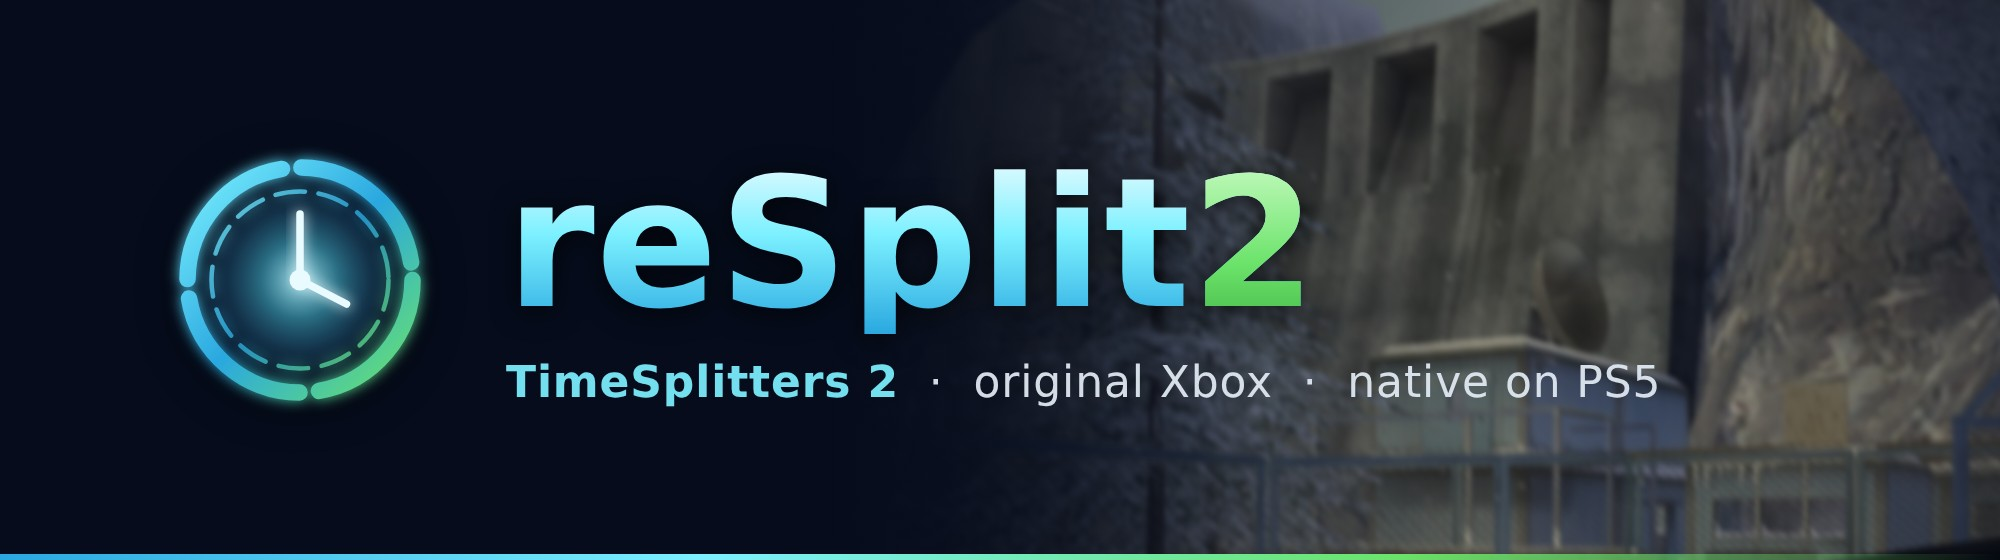
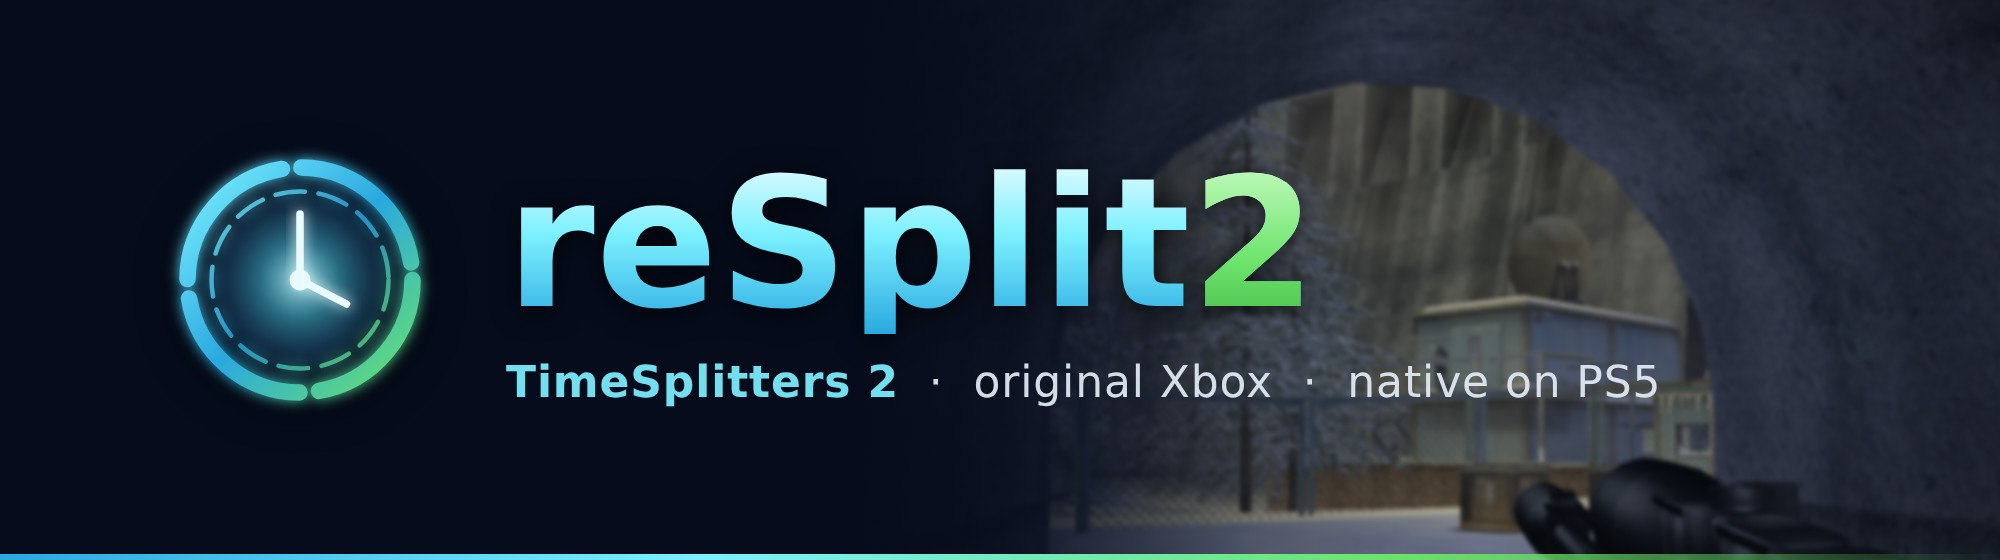
0.1.3: L2 aims, R2 fires; README: sharp PS5 screenshots of single player, split screen and the menus
Claude-Session: https://claude.ai/code/session_017kd37kA5EexT1GhJ6sbRyu

diff --git a/game/src/common/game_info.cpp b/game/src/common/game_info.cpp
@@ -2,7 +2,9 @@
 
 namespace ts2 {
 extern bool g_soft_filter;  // ts2_ps5.cpp
+extern bool g_left_trigger_aims;
 void PatchText();
+void Pad(int port, input::Pad& p);
 }  // namespace ts2
 
 // what the runtime asks of the game; strings must be set, hooks may stay null
@@ -19,7 +21,12 @@ const app::GameInfo app::kGame = {
     .options = {{"graphics", "soft_filter", cfg::Type::Bool, "Xbox soft filter",
                  "The game softened its picture for the TVs of its day by blending it over itself one pixel off. At "
                  "high resolutions that looks doubled and blurry, so it is off; turn it on for the console's look.",
-                 &ts2::g_soft_filter}},
+                 &ts2::g_soft_filter},
+                {"input", "left_trigger_aims", cfg::Type::Bool, "Left trigger aims",
+                 "L2 aims, as clicking the right stick does, and R2 fires. Clicking the right stick then does what L2 "
+                 "did (Alternate Fire, or the left gun of two). Set the game's Controls > Aim Mode to Hold to aim only "
+                 "while L2 is held.",
+                 &ts2::g_left_trigger_aims}},
     .load = nullptr,                      // reads more from the settings file's toml::table
     .save = nullptr,                      // writes more into it
     .init = nullptr,                      // after the settings load, before the window and boot
@@ -27,6 +34,6 @@ const app::GameInfo app::kGame = {
     .window = nullptr,                    // the game window is up
     .message = nullptr,                   // window messages first; true takes one
     .ui = nullptr,                        // ImGui drawing each frame
-    .pad = nullptr,                       // changes a polled pad
+    .pad = ts2::Pad,                      // changes a polled pad: the left trigger aims
     .rumble = nullptr,                    // changes a rumble before it is set
 };

diff --git a/game/src/game/ts2_ps5.cpp b/game/src/game/ts2_ps5.cpp
@@ -4,6 +4,7 @@
 #include <cstring>
 #include <string>
 
+#include "core/input.h"
 #include "core/log.h"
 #include "cpu/x86_context.h"
 #include "kernel/kernel.h"
@@ -13,6 +14,21 @@ namespace ts2 {
 
 // [graphics] soft_filter: the console's soft filter, off by default (below)
 bool g_soft_filter = false;
+// [input] left_trigger_aims: the left trigger and the right stick's click trade places (Pad below)
+bool g_left_trigger_aims = true;
+
+// The Xbox game fires with both triggers (the left one is Alternate Fire, or the left gun of two) and aims with a
+// click of the right stick. With left_trigger_aims on, the left trigger does what the right stick's click did (Aim:
+// held, or a toggle, as the game's Controls > Aim Mode says) and the click does what the left trigger did, so no
+// action is lost.
+void Pad(int port, input::Pad& p) {
+    (void)port;
+    if (!g_left_trigger_aims || !p.connected) return;
+    constexpr uint16_t kRightThumb = 0x80;
+    const bool trigger = p.analog[6] > 40, click = (p.buttons & kRightThumb) != 0;
+    p.buttons = trigger ? uint16_t(p.buttons | kRightThumb) : uint16_t(p.buttons & ~kRightThumb);
+    p.analog[6] = click ? 255 : 0;
+}
 
 namespace {
 

diff --git a/ps5/overlay_ps5.cpp b/ps5/overlay_ps5.cpp
@@ -57,6 +57,7 @@ const std::vector<Item>& Items() {
         {"graphics.lod_bias", 0},
         {"graphics.smooth_2d", 0},
         {"graphics.soft_filter", 0},
+        {"input.left_trigger_aims", 1},
         {"input.vibration", 1},
         {"input.stick_deadzone", 1},
         {"input.trigger_threshold", 1},

diff --git a/README.md b/README.md
@@ -36,12 +36,12 @@
 > Please don't use this project with pirated copies of the game.
 
 > [!NOTE]
-> **Early test builds.** The 0.1.x releases are for testing on real consoles. The story's first level, the menus,
-> profiles and saves have been played; expect rough edges elsewhere, and please [report](#reporting-a-problem) what
-> you find.
+> **Early test builds.** The 0.1.x releases are for testing on real consoles. The story's first level alone and in
+> two-player split screen, the menus, profiles and saves have been played; expect rough edges elsewhere, and please
+> [report](#reporting-a-problem) what you find.
 
 <p align="center">
-  <img src="docs/media/siberia.jpg" alt="Siberia, 1990: the Oblask dam behind a snowy compound, seen from the mouth of a tunnel, with the scanner in hand" width="100%">
+  <img src="docs/media/siberia.jpg" alt="Siberia, 1990: a sniper rifle in hand at the mouth of a tunnel, a guard on a snowy compound beyond it" width="100%">
   <br>
   <sub>Siberia, captured on a PS5 at 3840x2160.</sub>
 </p>
@@ -64,14 +64,36 @@ services.
   shape, with bars at the sides. The lens flares, motion blur and screen effects are the game's.
 - **PS5 in the game's text.** "Please don't turn off your PS5 console", and your saves live on "PS5 storage".
 - **Four-player split screen.** Sign in more users on the PS5 (guests are enough) and turn on their controllers.
+- **L2 aims, R2 fires**, as in today's shooters (the menu brings back the Xbox layout).
 - **An in-game menu.** L3 + R3 at any time: render resolution, V-Sync, frame rate counter, texture filtering, the
-  soft filter, vibration, stick deadzone and trigger threshold.
+  soft filter, the trigger layout, vibration, stick deadzone and trigger threshold.
 - **Disc image install.** Copy your `.iso` to the console and start the app: it does the rest.
+
+## Screenshots
+
+All captured on a PS5 at 3840x2160.
 
 <table>
   <tr>
-    <td width="50%"><img src="docs/media/tunnel.jpg" alt="The tunnel at the start of Siberia, the snowy compound at its end"></td>
-    <td width="50%"><img src="docs/media/crates.jpg" alt="Crates in the snow outside the compound, a pistol in hand"></td>
+    <td width="50%"><img src="docs/media/coop-sniper.jpg" alt="Two-player split screen: player 1 aims a sniper rifle at a guard on the compound, player 2 waits in the tunnel"></td>
+    <td width="50%"><img src="docs/media/coop-tunnel.jpg" alt="Two-player split screen: player 1 with the scanner in the tunnel, player 2 with a sniper rifle and an enemy beside the crates"></td>
+  </tr>
+  <tr>
+    <td colspan="2" align="center"><sub><b>Co-op story in split screen</b>, two DualSense controllers on one PS5.</sub></td>
+  </tr>
+  <tr>
+    <td width="50%"><img src="docs/media/scanner.jpg" alt="The Siberia tunnel with the scanner in hand, weapons on the floor"></td>
+    <td width="50%"><img src="docs/media/title.jpg" alt="The title screen: 1 Player, 2 Players, 3 Players, 4 Players"></td>
+  </tr>
+  <tr>
+    <td colspan="2" align="center"><sub><b>Single player</b>: Siberia's tunnel, and the title screen.</sub></td>
+  </tr>
+  <tr>
+    <td width="50%"><img src="docs/media/storage.jpg" alt="Select Storage Location: PS5 storage"></td>
+    <td width="50%"><img src="docs/media/profile.jpg" alt="Enter Name: a new profile named Dr. Peabody"></td>
+  </tr>
+  <tr>
+    <td colspan="2" align="center"><sub><b>Profiles and saves</b>, kept on the PS5's own storage.</sub></td>
   </tr>
 </table>
 
@@ -112,10 +134,16 @@ game is missing, damaged, or another game or release, a screen says so: press Cr
 | --- | --- |
 | A B X Y | Cross Circle Square Triangle |
 | Black / White | R1 / L1 |
-| Triggers | R2 / L2 |
+| Right trigger (fire) | R2 |
+| Right stick click (aim) | **L2** |
+| Left trigger (Alternate Fire, the left gun of two) | R3 |
 | Start / Back | Options / touchpad click |
-| Stick clicks | L3 / R3 |
+| Left stick click | L3 |
 | | **L3 + R3:** the settings menu |
+
+**L2 aims, R2 fires.** On the Xbox both triggers fired and a click of the right stick aimed; here L2 and the click
+trade places, so nothing is lost. To aim only while L2 is held, set the game's own **Controls > Aim Mode** to
+**Hold**. The settings menu's **Left trigger aims** turns it off, for the Xbox layout.
 
 Player 1 is the user who started the app. Players 2 to 4 are the other signed-in users whose controllers are on, in
 the order the PS5 lists them.
@@ -128,7 +156,7 @@ Circle, Options or L3 + R3 go back to the game. Changes apply at once and are sa
 | Page | Settings |
 | --- | --- |
 | **Picture** | Render resolution (1080p, 1620p, 4K), V-Sync, frame rate counter, texture filtering (16x by default) and sharpness, smooth menus and HUD, the Xbox soft filter (off by default) |
-| **Controls** | Vibration, stick deadzone, trigger threshold |
+| **Controls** | Left trigger aims, vibration, stick deadzone, trigger threshold |
 
 The app's `README.txt` describes every setting.
 
@@ -197,7 +225,8 @@ own `.iso`. Only whoever makes a release builds it from their own disc, once per
   SDK: `config/game.toml`, the recompiler's input (where the XDK library functions the runtime replaces sit in
   TimeSplitters 2, found with Cxbx-Reloaded's
   [XbSymbolDatabase](https://github.com/Cxbx-Reloaded/XbSymbolDatabase) and by hand, and the game's hooks), and
-  `src/`: the hooks (the disc check, one frame per 60 Hz blank, the soft filter switch, the PS5 in the game's text).
+  `src/`: the hooks (the disc check, one frame per 60 Hz blank, the soft filter switch, the PS5 in the game's text,
+  the trigger layout).
 - `patches/athelas-ps5.patch`: the SDK's changes for the PS5, from reKing: guest memory on 16 KiB pages, threads,
   the Vulkan surface on VideoOut, a logging switch.
 - `patches/ts2-sdk.patch`: TimeSplitters 2's: XDK 4721's layout, the vertex and pixel shader programs it sets

diff --git a/CHANGELOG.md b/CHANGELOG.md
@@ -1,5 +1,12 @@
 # Changelog
 
+## 0.1.3
+
+- **L2 aims, R2 fires.** The Xbox game fired with both triggers (the left one is Alternate Fire, or the left gun of
+  two) and aimed with a click of the right stick. Now L2 aims and R2 fires; clicking the right stick does what L2
+  did, so nothing is lost. Set the game's own **Controls > Aim Mode** to **Hold** to aim only while L2 is held. The
+  settings menu's **Left trigger aims** (Controls page) turns it off, for the Xbox layout.
+
 ## 0.1.2
 
 - **The right speed.** The game steps its world once for each of the console's 60 Hz vertical blanks since its last
